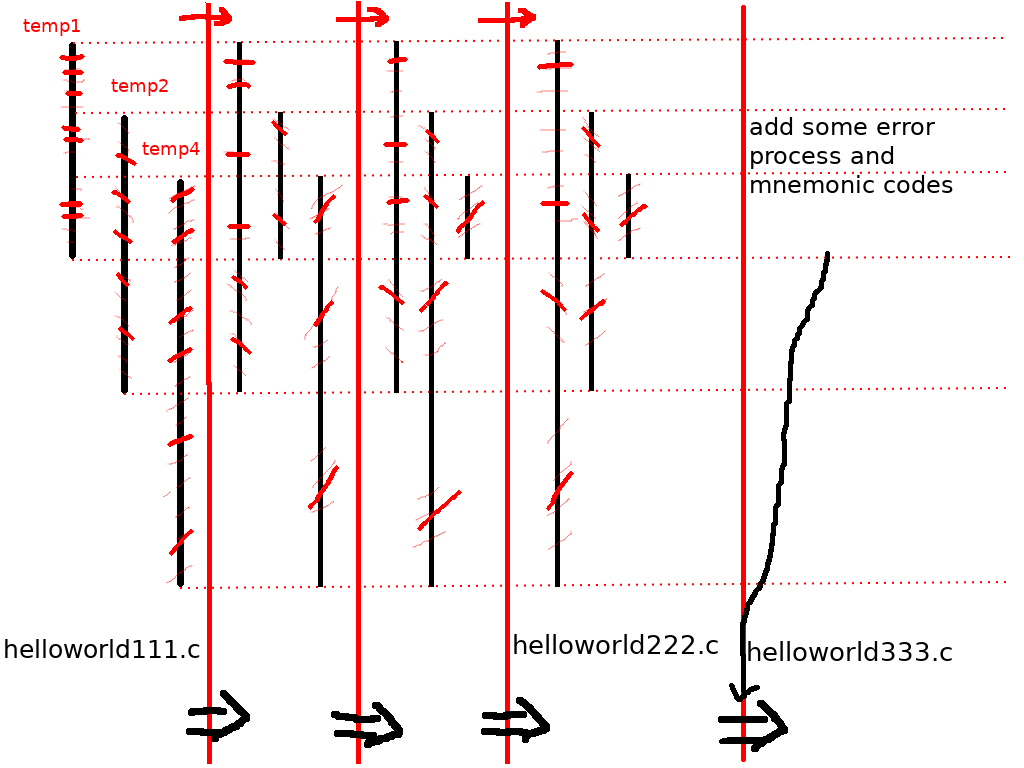
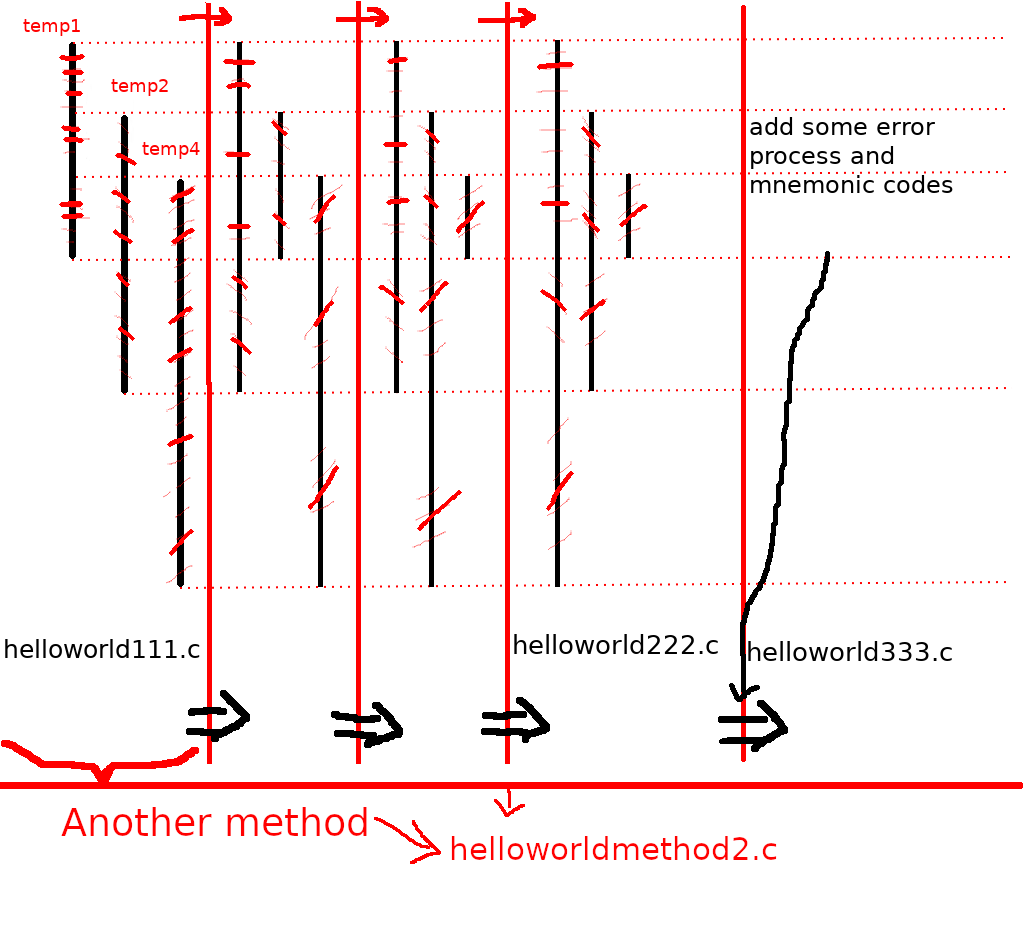
Add files via upload

diff --git a/helloworldmethod2.c b/helloworldmethod2.c
@@ -3,101 +3,93 @@
 #include<malloc.h>
 int main(int argc, char *argv[])
 {
-	OnlyMnemonicTolabeltemp0:;
-	int  tempreturn;
+	int  intreturn=0;
 	char * temp1;
 	char * temp2;
-	char * temp3;
 	char * temp4;
-	tempreturn=0;
 	temp1=(char *)malloc(7);
 	if(temp1==NULL)
 	{
 		printf("Malloc error.\r\n");
-		tempreturn=-1;
-		goto labeltemp0;
+		intreturn=-1;
+		goto proceerror1;
 	}
 	else
 	{
 	}
-	OnlyMnemonicTolabeltemp1:
 	temp1[0]='H';  temp1[1]='e';  temp1[2]='l';  temp1[3]='l';  temp1[4]='o';  temp1[5]=' ';  temp1[6]=0;
 	temp2=(char *)malloc(7);
 	if(temp2==NULL)
 	{
 		printf("Malloc error.\r\n");
-		tempreturn=-1;
-		goto labeltemp1;
+		intreturn=-1;
+		goto proceerror2;
 	}
 	else
 	{
 	}
-	OnlyMnemonicTolabeltemp2:
 	temp2[0]='w';  temp2[1]='o';  temp2[2]='r';  temp2[3]='l';  temp2[4]='d';  temp2[5]='.';  temp2[6]=0;
 	temp4=(char *)malloc(3);
 	if(temp4==NULL)
 	{
 		printf("Malloc error.\r\n");
-		tempreturn=-1;
-		goto labeltemp2;
+		intreturn=-1;
+		goto proceerror3;
 	}
 	else
 	{
 	}
-	OnlyMnemonicTolabeltemp4:
 	temp4[0]='\r';  temp4[1]='\n';  temp4[2]=0;
 	if( printf("%s",temp1)<0 )
 	{
-		tempreturn=-1;
-		goto labeltemp4;
+		intreturn=-1;
+		goto proceerror4;
 	}
 	else 
 	{
 	}
-	labeltemp4:
-	temp3=temp4;
-	temp4=temp1;
-	free(temp4);
-	temp1=temp2;
-	temp2=temp3;
-	if(tempreturn==-1)
-	{
-		goto labeltemp2;
-	}
-	else
-	{
-	}
-	if( printf("%s",temp1)<0 )
-	{
-		tempreturn=-1;
-		goto labeltemp2;
-	}
-	else 
-	{
-	}
-	labeltemp2:
-	temp3=temp2;
-	temp2=temp1;
-	free(temp2);
-	temp1=temp3;
-	if(tempreturn==-1)
-	{
-		goto labeltemp1;
-	}
-	else
-	{
-	}
-	if( printf("%s",temp1)<0 )
-	{
-		tempreturn=-1;
-		goto labeltemp1;
-	}
-	else 
-	{
-	}
-	labeltemp1:
 	free(temp1);
-	labeltemp0:;
-	return tempreturn;
+	if( printf("%s",temp2)<0 )
+	{
+		intreturn=-1;
+		goto proceerror5;
+	}
+	else 
+	{
+	}
+	free(temp2);
+	if( printf("%s",temp4)<0 )
+	{
+		intreturn=-1;
+		goto proceerror6;
+	}
+	else 
+	{
+	}
+	free(temp4);
+	goto proceerrorend;
+	proceerror1:
+	return intreturn;
+	proceerror2:
+	free(temp1);
+	return intreturn;
+	proceerror3:
+	free(temp1);
+	free(temp2);
+	return intreturn;
+	proceerror4:
+	free(temp1);
+	free(temp2);
+	free(temp4);
+	return intreturn;
+	proceerror5:
+	free(temp2);
+	free(temp4);
+	return intreturn;
+	proceerror6:
+	free(temp4);
+	return intreturn;
+	proceerrorend:
+	return intreturn;
 }
 

diff --git a/helloworld111.c b/helloworld111.c
@@ -1,7 +1,6 @@
 #include<stdio.h>
 #include<stdlib.h>
 #include<malloc.h>
-#include<string.h>
 int main(int argc, char *argv[])
 {
 	char * temp1;
@@ -11,8 +10,8 @@ int main(int argc, char *argv[])
 	temp1[0]='H';  temp1[1]='e';  temp1[2]='l';  temp1[3]='l';  temp1[4]='o';  temp1[5]=' ';  temp1[6]=0;
 	temp2=(char *)malloc(7);
 	temp2[0]='w';  temp2[1]='o';  temp2[2]='r';  temp2[3]='l';  temp2[4]='d';  temp2[5]='.';  temp2[6]=0;
-	temp4=(char *)malloc(2);
-	temp4[0]='\r';  temp4[1]='\n';
+	temp4=(char *)malloc(3);
+	temp4[0]='\r';  temp4[1]='\n';  temp4[2]=0;
 	printf("%s",temp1);
 	free(temp1);
 	printf("%s",temp2);

diff --git a/helloworld222.c b/helloworld222.c
@@ -1,7 +1,6 @@
 #include<stdio.h>
 #include<stdlib.h>
 #include<malloc.h>
-#include<string.h>
 int main(int argc, char *argv[])
 {
 	char * temp1;
@@ -12,8 +11,8 @@ int main(int argc, char *argv[])
 	temp1[0]='H';  temp1[1]='e';  temp1[2]='l';  temp1[3]='l';  temp1[4]='o';  temp1[5]=' ';  temp1[6]=0;
 	temp2=(char *)malloc(7);
 	temp2[0]='w';  temp2[1]='o';  temp2[2]='r';  temp2[3]='l';  temp2[4]='d';  temp2[5]='.';  temp2[6]=0;
-	temp4=(char *)malloc(2);
-	temp4[0]='\r';  temp4[1]='\n';
+	temp4=(char *)malloc(3);
+	temp4[0]='\r';  temp4[1]='\n';  temp4[2]=0;
 	printf("%s",temp1);
 	temp3=temp4;
 	temp4=temp1;
